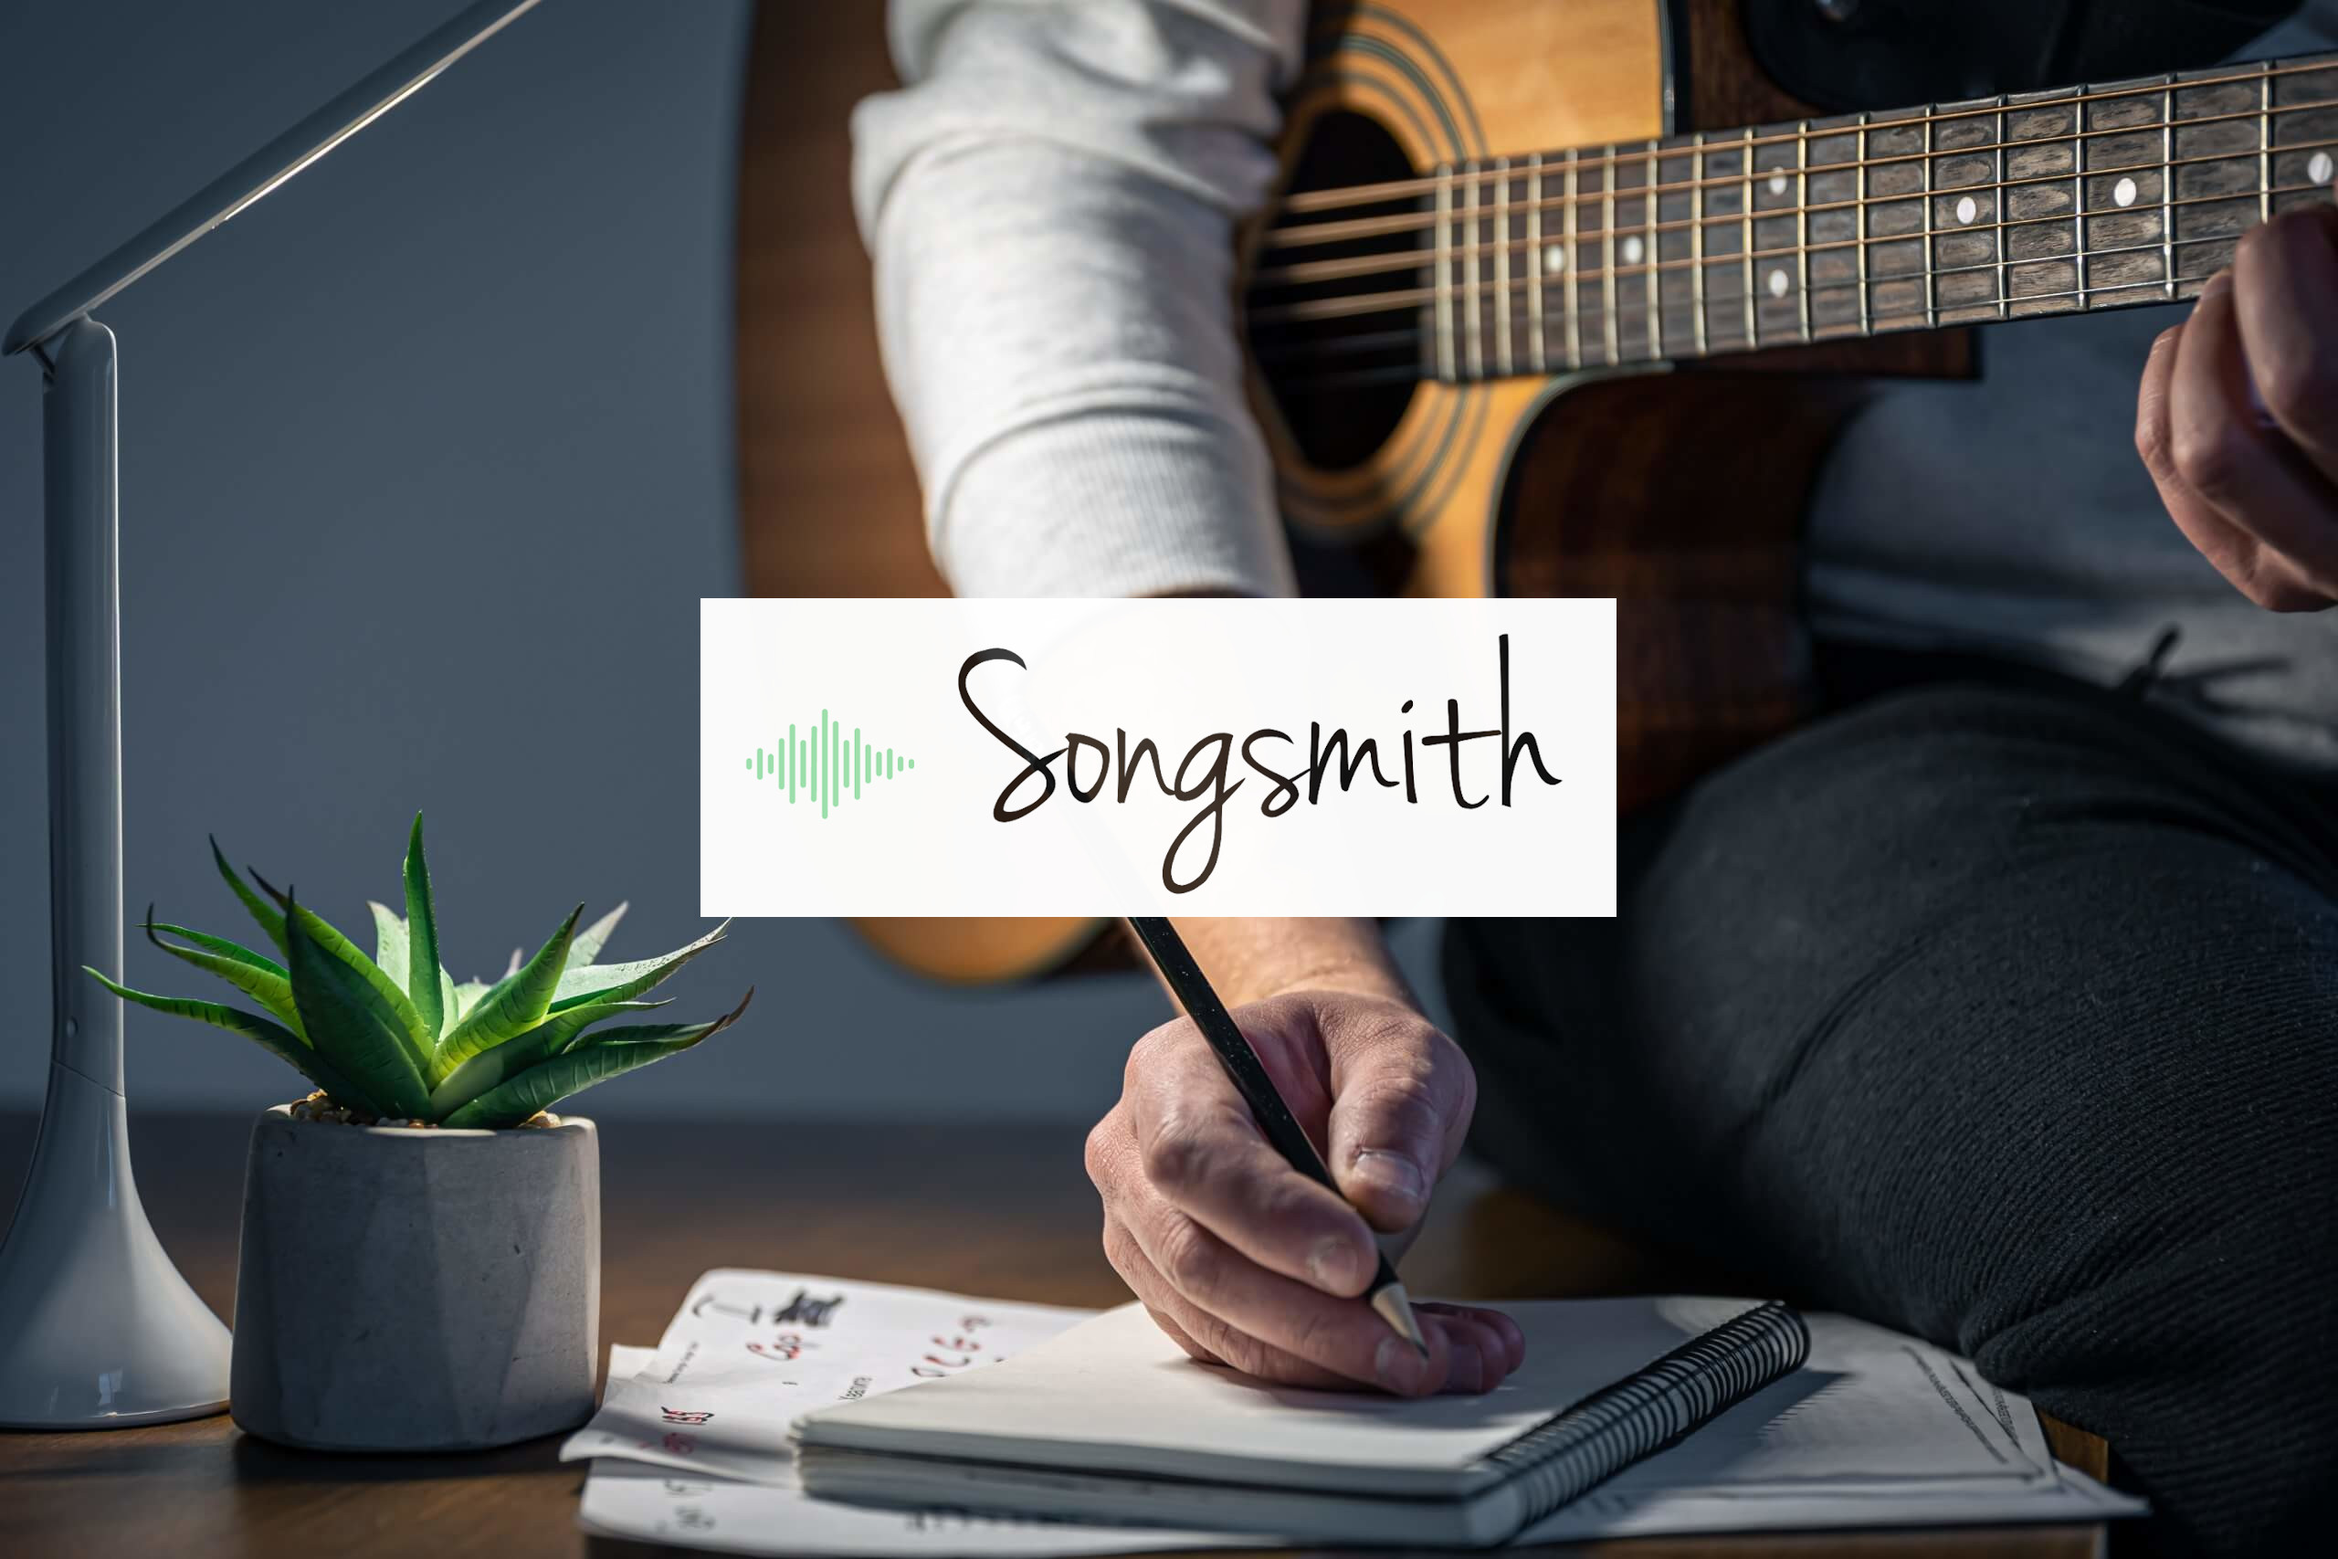
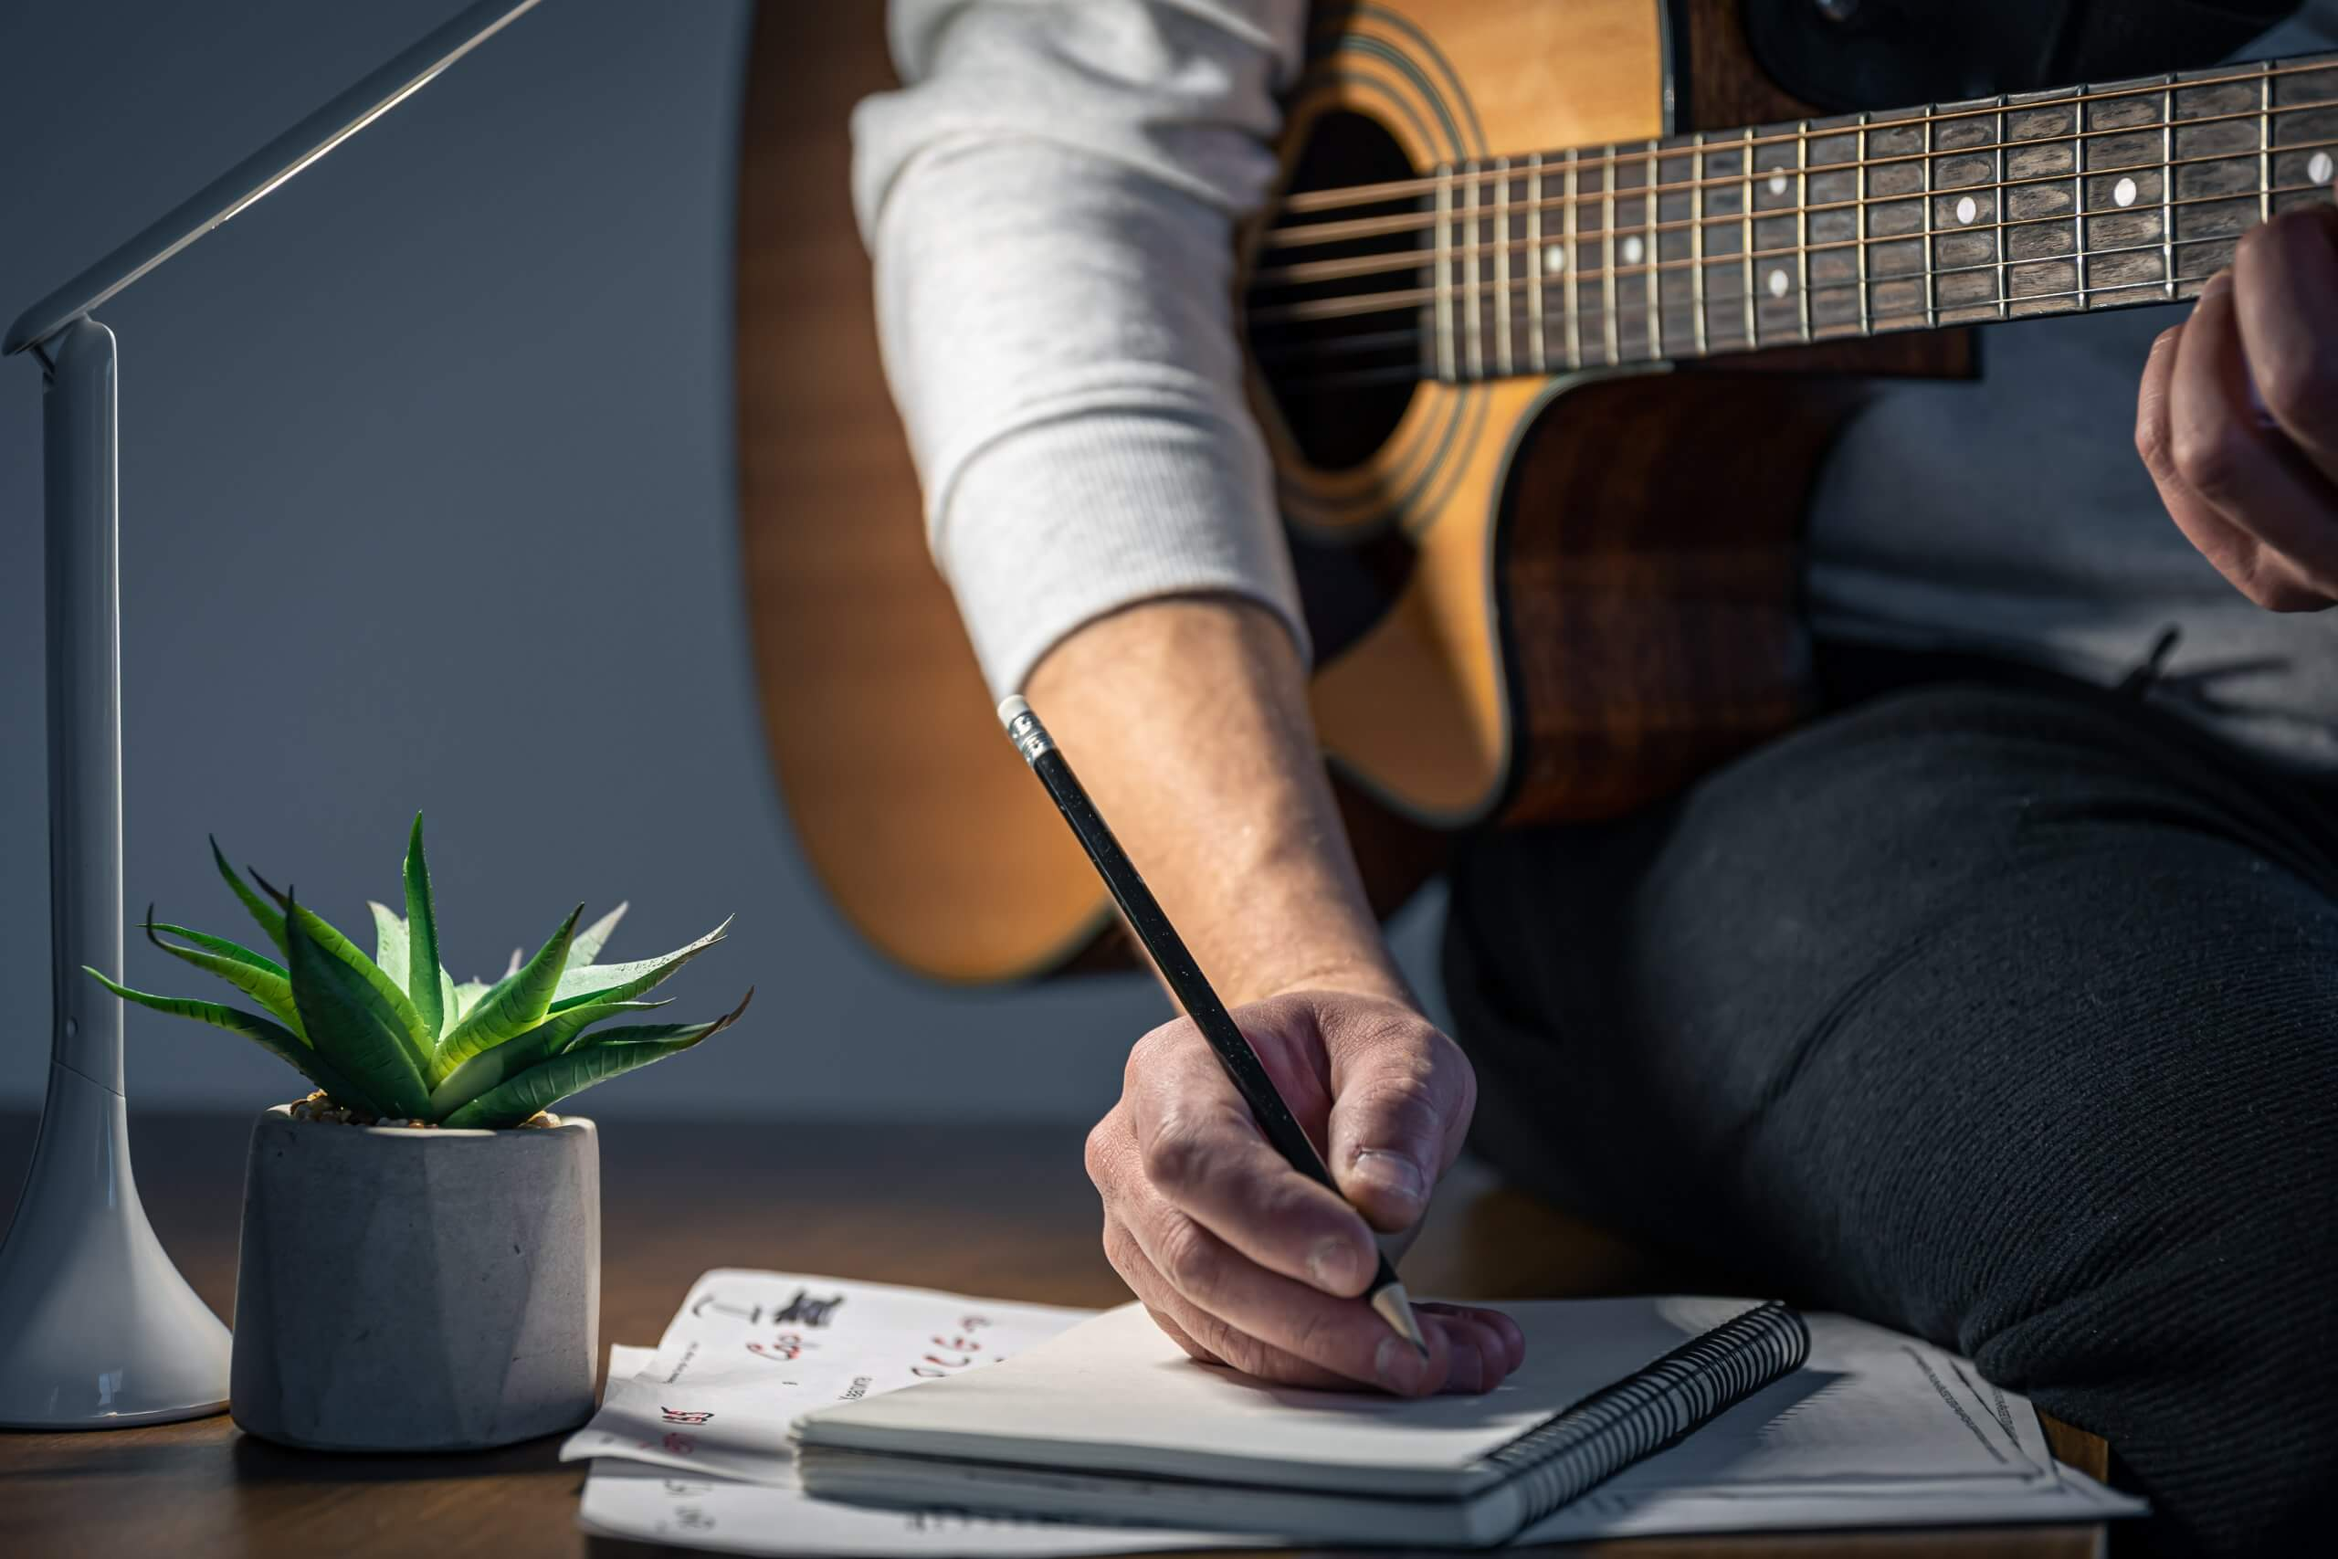
Removed backgroundRings for mobile to improve performance

Changed region(s): [[0.2812, 0.3726, 0.7188, 0.5899]]

diff --git a/src/app/Rings/Projects/page.js b/src/app/Rings/Projects/page.js
@@ -4,14 +4,12 @@ import styles from './Projects.module.css'
 import Image from 'next/image';
 import atelierApparel from '../../../../public/images/projects/atelier-apparel/atelier-logo.png';
 import atelierDesign from '../../../../public/images/projects/atelier-design/atelier-design.png';
-import songsmith from '../../../../public/images/projects/songsmith/songsmith.jpeg';
+import songsmith3 from '../../../../public/images/projects/songsmith/songsmith-3.png';
 import stringSchool from '../../../../public/images/projects/string-school/lmss-banner.jpg';
-// import timioBros from '../../../../public/images/projects/super-timio-bros/super-timio-bros.jpeg';
 import fitPass from '../../../../public/images/projects/fitpass/fitpass.png';
 import portfolioPreview from '../../../../public/images/projects/portfolio/portfolio-preview-2.png';
 import Link from 'next/link';
-// import { AnimatePresence } from 'framer-motion';
-// import { motion } from 'framer-motion';
+
 
 export default function Projects() {
 
@@ -57,7 +55,7 @@ export default function Projects() {
         </div>
         <div className={`${styles.projectsGridItem} ${styles.hoverMessage}`} id={styles.songsmithThumb}>
           <Link href={`Projects/songsmith`}>
-            <Image className={styles.projectThumb} src={songsmith} fill='true' alt='tool to aid songwriting'/>
+            <Image className={styles.projectThumb} src={songsmith3} fill='true' alt='tool to aid songwriting'/>
               <div className={styles.hoverText}>Not complete yet, but on the way soon. Check it out!</div>
             </Link>
           </div>

diff --git a/src/app/Rings/Projects/songsmith/page.js b/src/app/Rings/Projects/songsmith/page.js
@@ -1,18 +1,20 @@
 import Project from '../../../../components/Project/Project';
 import songsmith from '../../../../../public/images/projects/songsmith/songsmith.jpeg';
+import songsmith2 from '../../../../../public/images/projects/songsmith/songsmith-2.png';
+import songsmith3 from '../../../../../public/images/projects/songsmith/songsmith-3.png';
 
 export default function Songsmith() {
 
   const projectData = {
     name: 'SONGSMITH',
     date: 'Fall/Winter 2023',
-    description: [`Songsmith is still in the early stages of development. It's a full-stack web application to aid musicians in songwriting.
-    The app suggests scale and chord options for the user, given a key, or even just a root note. The app is built on an emphasis on understanding
+    description: [`Songsmith is still in the early stages of development. It's a web application to aid musicians in songwriting.
+    The app suggests scale and chord options for the user, given a key, or even just a root note. The app is built with an emphasis on understanding
     tonal choices, and each scale/chord progression suggested is accompanied by a description of its tonality for the user to consider.`, `More to
     come on this project soon!`],
     tech: ['Next.js', 'AWS'],
-    images: [songsmith],
-    deployLink: { url: '', 'text': 'LaMesaStringSchool.com'},
+    images: [songsmith3, songsmith, songsmith2],
+    deployLink: { url: 'http://13.58.198.187:3000/', text: 'See It Deployed Here'},
     repoLink: { url: 'https://github.com/timdobranski/songsmith.git', text: 'View Repo On Github' }
   }
 

diff --git a/src/app/page.js b/src/app/page.js
@@ -25,7 +25,7 @@ export default function Home() {
     },
     {
       header: 'WELCOME!',
-      text: ['My name is Tim and I', ' develop websites & apps.', ' Click here to see my work', '  or browse the rings', ' for more choices'],
+      text: ['I\'m Tim and I develop', ' websites & apps. Click', 'here to see my work'],
       color: 'greenGlow',
       link: '/Rings/Projects',
       id: 'ring1'
@@ -86,11 +86,11 @@ export default function Home() {
       <div className={styles.homeContainer} key='homeContainer'>
     <FontAwesomeIcon icon={faChevronLeft} className={styles.leftNav} onClick={handlePreviousRing}/>
     <FontAwesomeIcon icon={faChevronRight} className={styles.rightNav} onClick={handleNextRing} />
-              <div className='backgroundRing  yellowGlow m c1'></div>
-              <div className='backgroundRing  blueGlow m c2'></div>
-              <div className='backgroundRing  redGlow l c3'></div>
-              <div className='backgroundRing  greenGlow m c4'></div>
-              <div className='backgroundRing  blueGlow m c5'></div>
+              <div className='backgroundRing yellowGlow m c1'></div>
+              <div className='backgroundRing blueGlow m c2'></div>
+              <div className='backgroundRing redGlow l c3'></div>
+              <div className='backgroundRing greenGlow m c4'></div>
+              <div className='backgroundRing blueGlow m c5'></div>
     <div className={styles.ringGrid}>
 
 

diff --git a/src/app/globals.css b/src/app/globals.css
@@ -23,7 +23,8 @@ a {
 #header-container {
 display: fixed;
 width: 100%;
-min-height: 18vh;
+height: 20%;
+min-height: 160px;
 background-color: rgb(0, 0, 0);
 overflow: hidden;
 }
@@ -97,6 +98,7 @@ overflow: hidden;
   animation-name: pulsate;
   z-index: -1;
   filter: blur(5px);
+
 }
 .l {
   width: 5vw;
@@ -250,24 +252,22 @@ MOBILE STYLING
   .footerLink h2 {
     font-size: 3vw;
   }
-  /* .grid {
-    position: absolute;
-    bottom: 0;
-    width: 100vw;
-    height: 20vw;
-  } */
   #header-container {
     display: fixed;
     padding-left: 6vw;
     padding-right: 6vw;
     width: 100%;
     /* height: 16vh; */
-    min-height: 15vh;
+    min-height: 16vh;
     height: 16vw;
     background-color: rgb(0, 0, 0);
     overflow: hidden;
     }
   .footerGrid {
     height: 12vw;
+  }
+  .backgroundRing {
+    display: none;
+
   }
 }

diff --git a/src/components/Project/Project.module.css b/src/components/Project/Project.module.css
@@ -90,7 +90,8 @@
 }
 .sectionContainer{
   margin-top: 2rem;
-  padding: 1rem;
+  padding-left: 2rem;
+  padding-right: 2rem;
   display:flex;
   flex-direction: column;
   justify-content: center;

diff --git a/src/app/Home.module.css b/src/app/Home.module.css
@@ -285,7 +285,6 @@
   .inactiveLeft .ringHeader {
       font-size: 0.75rem;
   }
-
 }
 
 .ringZoom {
